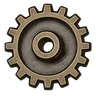
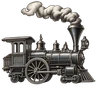
v1198: Uudet luonto-, tekniikka- ja kaupunkisymbolit; Psiloritis
- Luonto: vuori + havupuu + aalto (ruskea/vihrea/sininen) — vanha
  sulautui pienessa koossa tahraksi.
- Tekniikka: hoyryveturi rattaan tilalle (asetusvalikkokonnotaatio).
- Kaupungit: yksi porttitorni viireineen (tornipari luki kiikarina).
- Koodivarapiirtajat uusittu samoin aihein, generoi-symbolit.yml
  paivitetty, CSS-varit.
- Psiloritis lisatty klikattavaksi vuorikohteeksi Kreetalle
  (juttu, kuva, pollokysymykset) — muut nelja vuorta olivat jo.

Claude-Session: https://claude.ai/code/session_018vkp6HxpLR4gxZJFGscSan

diff --git a/js/fokusnosto-symbolit.js b/js/fokusnosto-symbolit.js
@@ -212,20 +212,39 @@ function piirraNostosymPylvas(g) {
   }, g);
 }
 
-/** VUORENHUIPPU JA AALTO — luonto: vuoret, joet, järvet (sinivihreä). */
+/**
+ * VUORI, HAVUPUU JA AALTO — luonto: vuoret, metsät, joet, järvet.
+ *
+ * KOLME VÄRIÄ, EI YHTÄ (omistajan tilaus 27.8.2026: *"uusi tunnus jossa
+ * esim. sininen meri ja ruskea vuori, jossa vihreä puu"*). Vanha merkki
+ * oli kokonaan sinivihreä, ja kaukaa siitä tuli yksi tahra: huippu, puu
+ * ja vesi sulautuivat samaksi läiskäksi. Nyt jokaisella osalla on oma
+ * vaimea sävynsä (--sym-luonto-vuori / -puu / -vesi), ja kolmen värin
+ * kerros erottuu pergamentilla myös 21 pikselissä.
+ *
+ * Perheen muut merkit kantavat yhden heraldisen aksentin; luonto on
+ * tietoinen poikkeus, koska juuri värien ero kertoo mistä on kyse.
+ */
 function piirraNostosymLuonto(g) {
   el('circle', { class: 'nostosym-laatta', r: 10.4 }, g);
   el('circle', { class: 'nostosym-kehys', r: 10.4 }, g);
   // Kaksi huippua — yksi kolmio olisi teltta, kaksi on vuoristo.
   el('path', {
     class: 'nostosym-vuoristo',
-    d: 'M-7.4 2.4 L-2.6 -6.4 L0.2 -1.6 L2.6 -4.8 L7.4 2.4 Z',
+    d: 'M-7.6 2.6 L-3.4 -6.6 L-0.6 -1.8 L1.8 -5.0 L6.6 2.6 Z',
   }, g);
-  // Aalto huippujen alla: vesi kuuluu samaan kategoriaan.
+  // Havupuu vuoren kyljessä: kolme kavenevaa lapetta ja lyhyt runko.
+  el('path', {
+    class: 'nostosym-havu',
+    d: 'M5.4 -5.4 L7.8 -1.6 L6.4 -1.6 L8.4 1.8 L2.4 1.8 L4.4 -1.6 '
+      + 'L3.0 -1.6 Z',
+  }, g);
+  el('path', { class: 'nostosym-viiva', d: 'M5.4 1.8 L5.4 3.4' }, g);
+  // Aalto alimpana: vesi kuuluu samaan kategoriaan ja kantaa sinisen.
   el('path', {
     class: 'nostosym-aalto',
-    d: 'M-6.6 5.6 Q-4.95 3.4 -3.3 5.6 Q-1.65 7.8 0 5.6 '
-      + 'Q1.65 3.4 3.3 5.6 Q4.95 7.8 6.6 5.6',
+    d: 'M-7.0 5.8 Q-5.25 3.6 -3.5 5.8 Q-1.75 8.0 0 5.8 '
+      + 'Q1.75 3.6 3.5 5.8 Q5.25 8.0 7.0 5.8',
   }, g);
 }
 
@@ -269,40 +288,39 @@ function piirraNostosymLyyra(g) {
   }, g);
 }
 
-/** HAMMASRATAS — tekniikka ja keksinnöt (teräksenharmaa). */
-function piirraNostosymRatas(g) {
+/**
+ * HÖYRYVETURI — tekniikka ja keksinnöt (teräksenharmaa).
+ *
+ * HAMMASRATAS PUTOSI POIS (omistaja 27.8.2026: *"nykyinen näyttää
+ * liikaa asetusvalikon rattaalta (väärä konnotaatio) — keksi KOKONAAN
+ * TOINEN aihe"*). Ratas on nykylukijalle asetusnappi, eikä kartta saa
+ * luvata valikkoa. Veturi on 1873:n oma kone — juuri se, jolla
+ * maailmanympärimatka tehdään — ja sen ääriviiva (matala runko, korkea
+ * savupiippu, iso vetopyörä) tunnistetaan yhdellä silmäyksellä myös
+ * 21 pikselissä. Lennätinpylväs ja vauhtipyörä olivat ehdolla mutta
+ * hävisivät: pylvään langat katoavat pieneksi kutistuessa ja
+ * vauhtipyörä olisi taas kiekko.
+ */
+function piirraNostosymVeturi(g) {
   el('circle', { class: 'nostosym-laatta', r: 10.4 }, g);
   el('circle', { class: 'nostosym-kehys', r: 10.4 }, g);
-  el('path', { class: 'nostosym-ratas', d: nostosymRatasPolku() }, g);
-  // Napa on paperia: reikä keskellä tekee kiekosta rattaan.
-  el('circle', { class: 'nostosym-ratasnapa', r: 2 }, g);
-}
-
-/**
- * Rattaan polku lasketaan eikä ladota käsin: kahdeksan hammasta on 32
- * kulmapistettä, ja käsin kirjoitettuna yksikin niistä väärin särkisi
- * pyöreyden huomaamattomasti.
- */
-function nostosymRatasPolku() {
-  const hampaita = 8;
-  const ulko = 7.6;
-  const sisa = 5.4;
-  // Hampaan lape on kapeampi kuin hammasväli: näin hampaat erottuvat
-  // vielä 21 pikselissä eikä ratas puuroudu monikulmioksi.
-  const lape = (Math.PI / hampaita) * 0.44;
-  const osat = [];
-  for (let i = 0; i < hampaita; i += 1) {
-    const keski = (i / hampaita) * 2 * Math.PI - Math.PI / 2;
-    const vali = ((i + 0.5) / hampaita) * 2 * Math.PI - Math.PI / 2;
-    for (const [sade, kulma] of [
-      [ulko, keski - lape], [ulko, keski + lape],
-      [sisa, keski + lape * 1.9], [sisa, vali + Math.PI / hampaita - lape * 1.9],
-    ]) {
-      osat.push(`${osat.length ? 'L' : 'M'}${(Math.cos(kulma) * sade).toFixed(2)} `
-        + `${(Math.sin(kulma) * sade).toFixed(2)}`);
-    }
-  }
-  return `${osat.join(' ')} Z`;
+  // Runko yhtenä täyttönä: kattila edessä, ohjaamo takana, savupiippu
+  // ylös. Kulkusuunta oikealle, kuten matka.
+  el('path', {
+    class: 'nostosym-veturi',
+    d: 'M-8.2 3.6 L-8.2 -4.6 L-3.6 -4.6 L-3.6 -0.6 L-2.2 -0.6 '
+      + 'L-2.2 -5.4 L-0.6 -5.4 L-0.6 -0.6 L7.4 -0.6 L8.2 0.4 '
+      + 'L8.2 3.6 Z',
+  }, g);
+  // Höyrypilvi piipun päältä: kolme nousevaa palloa.
+  el('circle', { class: 'nostosym-hoyry', cx: -1.4, cy: -6.8, r: 1.2 }, g);
+  el('circle', { class: 'nostosym-hoyry', cx: 1.0, cy: -8.0, r: 0.9 }, g);
+  el('circle', { class: 'nostosym-hoyry', cx: 3.0, cy: -8.6, r: 0.6 }, g);
+  // Iso vetopyörä ja kaksi pikkupyörää — pyörät tekevät koneesta veturin.
+  el('circle', { class: 'nostosym-veturipyora', cx: 3.6, cy: 4.6, r: 2.9 }, g);
+  el('circle', { class: 'nostosym-veturinapa', cx: 3.6, cy: 4.6, r: 0.8 }, g);
+  el('circle', { class: 'nostosym-veturipyora', cx: -2.2, cy: 5.4, r: 1.7 }, g);
+  el('circle', { class: 'nostosym-veturipyora', cx: -6.2, cy: 5.4, r: 1.7 }, g);
 }
 
 /** VAAKA — kauppa ja raha (oliivi). */
@@ -396,29 +414,44 @@ function piirraNostosymSeppele(g) {
 /**
  * PORTTITORNI — kaupunki. Jokainen kortin avaava kohde saa symbolin
  * (omistaja 26.8.2026: "onhan kaupungille myös oma symboli, jos sen
- * takaa aukeaa popup?"): muurattu kaupunginportti kahdella tornilla
- * ja holvatulla aukolla, 1873-kartan kaupunkimerkin henkeen.
+ * takaa aukeaa popup?").
+ *
+ * YKSI TORNI, EI KAHTA (omistaja 27.8.2026: *"nykyinen näyttää kaukaa
+ * katsottuna liikaa kiikarilta"*). Kahden yhtä korkean pyöreähkön
+ * tornin pari on juuri kiikarin ääriviiva, ja kaukaa katsottuna se
+ * luki kiikariksi eikä kaupungiksi. Nyt merkki on EPÄSYMMETRINEN:
+ * yksi sakarapäinen porttitorni, sen juuressa holvattu aukko ja
+ * huipulla viiri — siluetti, jota mikään toinen taulun symboli ei
+ * muistuta.
  */
 function piirraNostosymPortti(g) {
   el('circle', { class: 'nostosym-laatta', r: 10.4 }, g);
   el('circle', { class: 'nostosym-kehys', r: 10.4 }, g);
-  // Kaksi tornia sakaroineen ja muuri niiden välissä.
+  // Yksi torni sakaroineen ja matala muuri sen oikealla puolella.
   el('path', {
     class: 'nostosym-kaupunki',
-    d: 'M-7.2 6.2 L-7.2 -3.4 L-6.2 -3.4 L-6.2 -5.2 L-4.6 -5.2 L-4.6 -3.4 L-3.4 -3.4 L-3.4 6.2 Z '
-      + 'M3.4 6.2 L3.4 -3.4 L4.6 -3.4 L4.6 -5.2 L6.2 -5.2 L6.2 -3.4 L7.2 -3.4 L7.2 6.2 Z '
-      + 'M-3.4 6.2 L-3.4 -1.2 L3.4 -1.2 L3.4 6.2 Z',
+    d: 'M-4.6 7.4 L-4.6 -4.6 L-3.4 -4.6 L-3.4 -6.0 L-1.8 -6.0 '
+      + 'L-1.8 -4.6 L-0.6 -4.6 L-0.6 -6.0 L1.0 -6.0 L1.0 -4.6 '
+      + 'L2.2 -4.6 L2.2 7.4 Z '
+      + 'M2.2 7.4 L2.2 1.4 L7.4 1.4 L7.4 7.4 Z',
   }, g);
-  // Holvattu porttiaukko muurin keskellä — paperinvärinen, jotta portti
-  // näyttää avoimelta.
+  // Holvattu porttiaukko tornin juuressa — paperinvärinen, jotta
+  // portti näyttää avoimelta.
   el('path', {
     class: 'nostosym-portinaukko',
-    d: 'M-1.7 6.2 L-1.7 1.6 Q0 -0.4 1.7 1.6 L1.7 6.2 Z',
+    d: 'M-2.8 7.4 L-2.8 2.4 Q-1.2 0.4 0.4 2.4 L0.4 7.4 Z',
+  }, g);
+  // Viiri tornin huipulta oikealle: se rikkoo symmetrian lopullisesti.
+  el('path', { class: 'nostosym-viiva', d: 'M-1.8 -6.0 L-1.8 -9.2' }, g);
+  el('path', {
+    class: 'nostosym-viiri',
+    d: 'M-1.8 -9.2 L2.6 -8.2 L-1.8 -7.2 Z',
   }, g);
   // Muurin harjan sakarat viivana.
   el('path', {
     class: 'nostosym-viiva',
-    d: 'M-3.4 -1.2 L-2.2 -1.2 L-2.2 -2.4 L-0.8 -2.4 L-0.8 -1.2 L0.8 -1.2 L0.8 -2.4 L2.2 -2.4 L2.2 -1.2 L3.4 -1.2',
+    d: 'M2.2 1.4 L3.4 1.4 L3.4 0.2 L4.8 0.2 L4.8 1.4 L6.2 1.4 '
+      + 'L6.2 0.2 L7.4 0.2 L7.4 1.4',
   }, g);
 }
 
@@ -460,7 +493,7 @@ const NOSTOSYM_PIIRTAJAT = {
   luonto: piirraNostosymLuonto,
   ruoka: piirraNostosymMalja,
   kulttuuri: piirraNostosymLyyra,
-  tekniikka: piirraNostosymRatas,
+  tekniikka: piirraNostosymVeturi,
   kauppa: piirraNostosymVaaka,
   sana: piirraNostosymSulka,
   merenkulku: piirraNostosymMeriankkuri,

diff --git a/css/styles.css b/css/styles.css
@@ -20070,7 +20070,15 @@ body.maataulu-auki .toimintorivi .monitoimi-nappi {
   --sym-elain: #b98d54;        /* ruskea — eläimet (pöllönpoikanen) */
   --sym-silma: #5f7f9e;        /* sininen — nähtävyydet ja multimedia */
   --sym-historia: #a05c3f;     /* punaruskea — historia ja rauniot */
-  --sym-luonto: #4f7d6f;       /* sinivihreä — vuoret, joet, järvet */
+  --sym-luonto: #4f7d6f;       /* sinivihreä — luonnon kategoriaväri (kortin ylärivi) */
+  /*
+   * Luonnon merkki on perheen ainoa KOLMIVÄRINEN (omistaja 27.8.2026:
+   * "sininen meri ja ruskea vuori, jossa vihreä puu"). Sävyt ovat yhtä
+   * vaimeita kuin muidenkin aksentit — pergamentti ei kestä kirkasta.
+   */
+  --sym-luonto-vuori: #8a6849;  /* ruskea — kallio */
+  --sym-luonto-puu: #4a6b3d;    /* vihreä — havupuu */
+  --sym-luonto-vesi: #4a7690;   /* sininen — meri ja järvi */
   --sym-ruoka: #8e4550;        /* viininpunainen — ruoka ja juoma */
   --sym-kulttuuri: #7b5a8c;    /* violetti — musiikki, teatteri, taide */
   --sym-tekniikka: #6f7278;    /* teräksenharmaa — tekniikka ja keksinnöt */
@@ -20115,6 +20123,14 @@ body.maataulu-auki .toimintorivi .monitoimi-nappi {
 
 /* Porttiaukko on laatan väriä: portti näyttää avoimelta. */
 .nostosym-portinaukko { fill: var(--sym-laatta); stroke: var(--sym-muste); stroke-width: 0.7; }
+
+/* Tornin viiri: sama muurinruskea, mutta ohuempi kynä. */
+.nostosym-viiri {
+  fill: var(--sym-kaupunki);
+  stroke: var(--sym-muste);
+  stroke-width: 0.6;
+  stroke-linejoin: round;
+}
 
 
 .nostosym-kehys {
@@ -20185,17 +20201,24 @@ body.maataulu-auki .toimintorivi .monitoimi-nappi {
   stroke-linejoin: round;
 }
 
-/* Vuorenhuippu ja aalto — luonto. */
+/* Vuori, havupuu ja aalto — luonto; kolme osaa, kolme sävyä. */
 .nostosym-vuoristo {
-  fill: var(--sym-luonto);
+  fill: var(--sym-luonto-vuori);
   stroke: var(--sym-muste);
   stroke-width: 0.9;
   stroke-linejoin: round;
 }
 
+.nostosym-havu {
+  fill: var(--sym-luonto-puu);
+  stroke: var(--sym-muste);
+  stroke-width: 0.7;
+  stroke-linejoin: round;
+}
+
 .nostosym-aalto {
   fill: none;
-  stroke: var(--sym-luonto);
+  stroke: var(--sym-luonto-vesi);
   stroke-width: 1.4;
   stroke-linecap: round;
 }
@@ -20222,18 +20245,35 @@ body.maataulu-auki .toimintorivi .monitoimi-nappi {
   stroke-width: 0.7;
 }
 
-/* Hammasratas — tekniikka; napa on paperia, jotta kiekosta tulee ratas. */
-.nostosym-ratas {
+/*
+ * Höyryveturi — tekniikka. Hammasratas poistui 27.8.2026 (asetusnapin
+ * konnotaatio, ks. js/fokusnosto-symbolit.js piirraNostosymVeturi).
+ */
+.nostosym-veturi {
   fill: var(--sym-tekniikka);
   stroke: var(--sym-muste);
   stroke-width: 0.8;
   stroke-linejoin: round;
 }
 
-.nostosym-ratasnapa {
-  fill: var(--sym-laatta);
+.nostosym-veturipyora {
+  fill: var(--sym-tekniikka);
   stroke: var(--sym-muste);
   stroke-width: 0.8;
+}
+
+/* Vetopyörän napa on paperia: reikä erottaa pyörän umpikiekosta. */
+.nostosym-veturinapa {
+  fill: var(--sym-laatta);
+  stroke: var(--sym-muste);
+  stroke-width: 0.6;
+}
+
+/* Höyry on vaaleaa kuin paperi, ohut musteviiva reunana. */
+.nostosym-hoyry {
+  fill: var(--sym-laatta);
+  stroke: var(--sym-muste);
+  stroke-width: 0.6;
 }
 
 /* Vaaka — kauppa: kupit ja jalusta täyttöinä, varsi musteviivana. */

diff --git a/js/packs/fokuskohteet-grc.js b/js/packs/fokuskohteet-grc.js
@@ -489,6 +489,64 @@ export const FOKUSKOHTEET_GRC = [
       lahde: 'Deyan Vasilev (Dido3), Wikimedia Commons (CC BY-SA 3.0)',
     },
   },
+  /*
+   * PSILORÍTIS — KREETAN VUORI, JOKA JÄI KLIKATTAVAKSI VIIMEISENÄ.
+   *
+   * Omistajan havainto 27.8.2026 Kreetan kohdalta: *"vuorimerkit eivät
+   * nyt ole klikattavissa — niiden pitäisi olla."* Lehteen on poltettu
+   * viisi vuorikolmiota (tools/fokuskartta/maat.mjs GRC.vuoret), ja
+   * neljä niistä oli jo tässä taulussa kohteena: Ólympos, Parnassós,
+   * Taÿgetos ja Píndos (jonka merkki seisoo Smólikaksen huipulla).
+   * VAIN PSILORÍTIS PUUTTUI — ja juuri se on Kreetan lehdellä, jota
+   * omistaja katsoi. Kuvaan poltettu kolmio on pikseleitä, joten
+   * ilman kohdetta sen päällä ei ole mitään napautettavaa.
+   *
+   * Kohde tulee siis SAMAAN JÄRJESTELMÄÄN kuin muut vuoret eikä omaan
+   * nappikerrokseensa: kartan merkki, kortti, pöllökysymykset ja
+   * korostukset saadaan valmiina, ja napautus avaa täsmälleen saman
+   * tietoruudun kuin muillakin kohteilla.
+   */
+  {
+    id: 'psiloritis',
+    nimi: 'Psilorítis',
+    tyyppi: 'vuori',
+    kysymykset: [
+      'Mitä Idan luolasta on löydetty?',
+      'Miksi Zeus piilotettiin juuri Kreetalle?',
+    ],
+    korostukset: ['Idan luola|Idan luolassa'],
+    /* Valintakuplan painike, jos kohde nostetaan jonkin kaupungin virtaan. */
+    nappi: 'Vuori, jossa Zeus kasvoi',
+    /*
+     * 24,77556 E / 35,22806 N — en-Wikipedia "Mount Ida (Crete)".
+     * Laudan luvut on laskettu samasta projektiosta kuin muidenkin
+     * kohteiden ja ankkuroitu Kreetan omiin naapureihin (Iraklion,
+     * Taÿgetos), jotta kolmio osuu lehden poltettuun merkkiin
+     * pikselilleen myös saaren eteläisellä leveydellä.
+     */
+    laudat: {
+      maailmankartta: { x: 6659.0, y: 1986.7 },
+      europe: { x: 686.9, y: 967.1 },
+    },
+    teksti: 'Psilorítis eli Ida on Kreetan korkein vuori, 2 456 metriä, ja '
+      + 'se kohoaa saaren keskiosassa Iraklionin lounaispuolella. Vuoren '
+      + 'pohjoisrinteessä noin 1 500 metrin korkeudessa on Idan luola, '
+      + 'jossa taruston mukaan Rhea kätki vastasyntyneen Zeuksen isänsä '
+      + 'Kronoksen ulottumattomiin. Luolasta on kaivettu esiin '
+      + 'pronssikautisia uhrilahjoja, ja se oli merkittävä pyhäkkö jo '
+      + 'minolaisella ajalla. Huipulla seisoo Ristin kappeli, ja '
+      + 'lampaita paimennetaan rinteillä yhä samaan tapaan kuin '
+      + 'vuosisatoja sitten.',
+    lahde: 'en-Wikipedia "Mount Ida (Crete)" ja "Idaean Cave", johdanto-osat '
+      + '(tarkistettu 27.8.2026).',
+    // Category:Mount Ida (Crete).
+    kuva: {
+      tiedosto: 'Psiloritis view from Thronos 01.JPG',
+      selite: 'Psilorítis on Kreetan korkein huippu, 2 456 metriä, ja sen '
+        + 'kyljessä noin 1 500 metrin korkeudessa aukeaa Idan luola.',
+      lahde: 'Uoaei1, Wikimedia Commons (CC BY-SA 4.0)',
+    },
+  },
   {
     id: 'egeanmeri',
     nimi: 'Egeanmeri',

diff --git a/js/tyohuone-tilanne.js b/js/tyohuone-tilanne.js
@@ -48,6 +48,7 @@ export const TILANNE = {
  * rivit siivotaan kun ne on katsottu.
  */
 export const TESTATTAVAA = [
+  'Karttasymbolit: luonto nyt vuori+puu+aalto varein, tekniikka hoyryveturi (ei ratasta), kaupunki yksi porttitorni viirilla; Psiloritis-vuori Kreetalla klikattavissa',
   'Kuvatekstiremontti era 8: 15 Aasian kaupunkia Hanoista Kabuliin uuteen saantoon (130 selitetta)',
   'Pollon puhekuplan (ja muiden kelluvien pintojen) sulkeva napautus ei enaa vuoda alla olevaan karttaan — ei tahattomia kohdeavauksia tai matkoja',
   'Ihmepopup: olemassa olevilla nykytilan valokuva paakuvana ja Koe ihme -nappi kuvan alla; vanhat piirrosrekonstruktiot poistettu; Matkakirjan ihme -nauha diagonaalisena kulman yli kaariytyen',

diff --git a/js/muutokset.js b/js/muutokset.js
@@ -13,6 +13,7 @@
  * Vanhat rivit eivät muutu — loki on historia, ei kuvaus nykytilasta.
  */
 export const MUUTOKSET = [
+  { v: 1198, teksti: 'Uudet luonto-, tekniikka- ja kaupunkisymbolit; Psiloritis' },
   { v: 1197, teksti: 'Kuvatekstiremontti era 8: Hanoista Kabuliin' },
   { v: 1196, teksti: 'Puhekuplan napautus ei enaa vuoda kartalle' },
   { v: 1195, teksti: 'Ihmepopup: nykytilan valokuva, nappi kuvan alle, kulmanauha' },

diff --git a/js/main.js b/js/main.js
@@ -98,7 +98,7 @@ natiiviSeuraa(STAMP_KEY);
 // Vanha maailma korvattiin maailmankartalla; tallennukset siirretään.
 const VANHA_LAUTA = 'vanhamaailma';
 const UUSI_LAUTA = 'maailmankartta';
-const APP_VERSION = '2026-08-09.1197';
+const APP_VERSION = '2026-08-09.1198';
 
 const rulesDialog = document.getElementById('rules-dialog');
 const winnerDialog = document.getElementById('winner-dialog');

diff --git a/sw.js b/sw.js
@@ -1,5 +1,5 @@
 // Palvelutyöntekijä: pelin tiedostot välimuistiin, jotta sovellus toimii myös offline.
-const CACHE = 'matkakirja-2026-08-09.1197';
+const CACHE = 'matkakirja-2026-08-09.1198';
 const SHELL = [
   './',
   './index.html',
